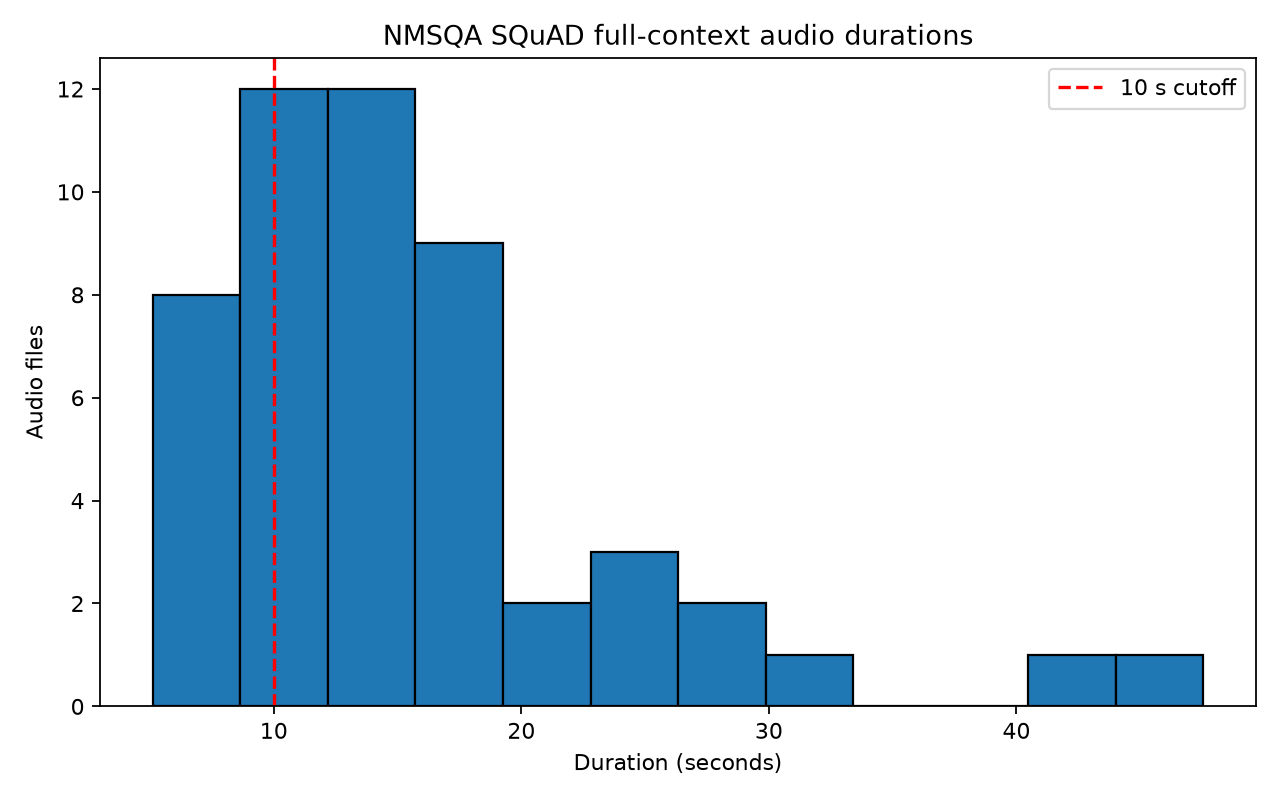
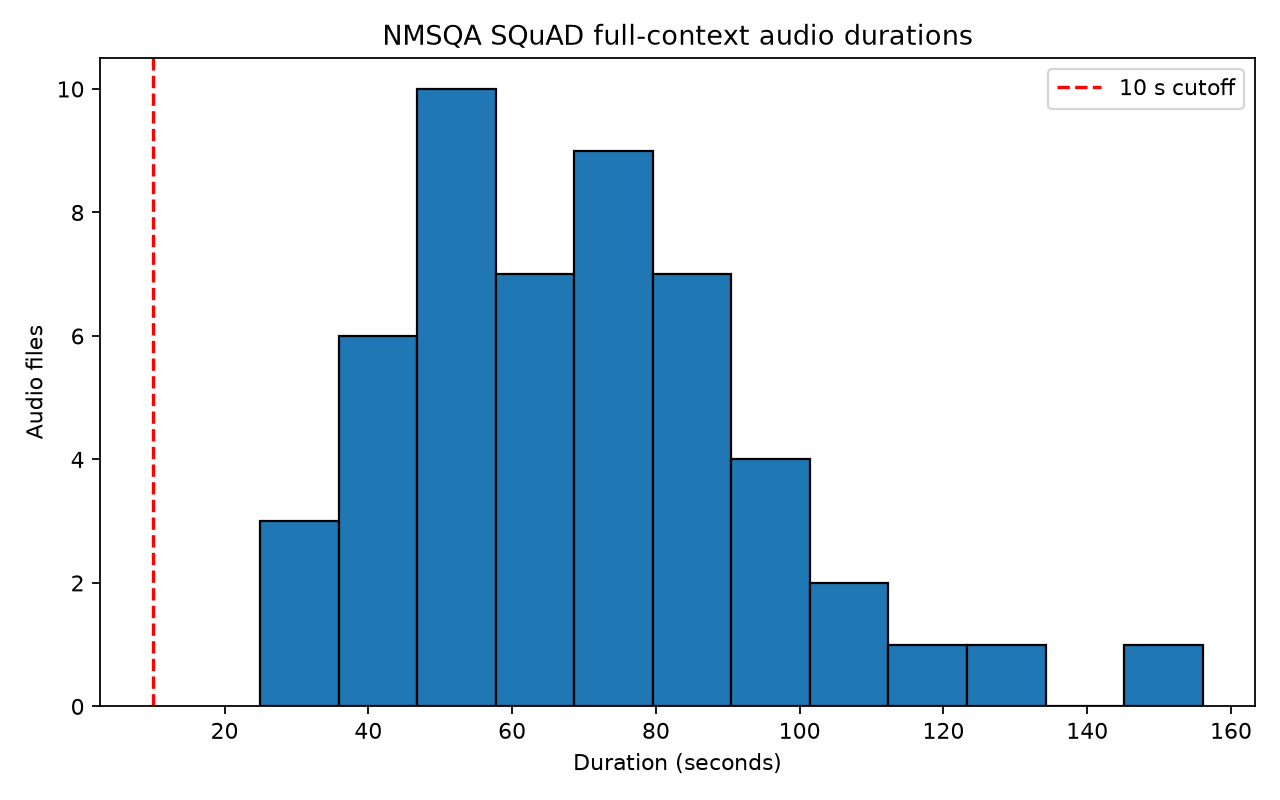
Merge NMSQA audio segments into full recordings

diff --git a/data/merge_nmsqa_squad_audio.py b/data/merge_nmsqa_squad_audio.py
@@ -1,0 +1,165 @@
+"""Merge NMSQA context segments for the 51 SQuAD 2.0 dev recordings.
+
+Source segment files are not modified. Full recordings are written as
+``<recording-prefix>-full.wav``. This script does not apply the 30-second crop.
+"""
+
+from __future__ import annotations
+
+import argparse
+import json
+import statistics
+from pathlib import Path
+
+import soundfile as sf
+
+from select_nmsqa_squad_audio import select_audio_names
+
+
+DEFAULT_OVERLAP_DIR = Path("data/raw/nmsqa_overlap")
+DEFAULT_SOURCE_DIR = Path("data/raw/nmsqa/NMSQA_audio/test_audios")
+DEFAULT_OUTPUT_DIR = Path("data/raw/nmsqa_squad_test")
+
+
+def parse_args() -> argparse.Namespace:
+    parser = argparse.ArgumentParser(
+        description="Merge NMSQA c-0, c-1, ... segments into 51 full recordings."
+    )
+    parser.add_argument(
+        "--nmsqa-parquet",
+        type=Path,
+        default=DEFAULT_OVERLAP_DIR / "nmsqa_test.parquet",
+    )
+    parser.add_argument(
+        "--squad-dev",
+        type=Path,
+        default=DEFAULT_OVERLAP_DIR / "dev-v2.0.json",
+    )
+    parser.add_argument("--source-dir", type=Path, default=DEFAULT_SOURCE_DIR)
+    parser.add_argument("--output-dir", type=Path, default=DEFAULT_OUTPUT_DIR)
+    return parser.parse_args()
+
+
+def recording_prefix(audio_name: str) -> str:
+    stem = Path(audio_name).stem
+    prefix, separator, segment_number = stem.rpartition("-c-")
+    if not separator or not prefix or not segment_number.isdigit():
+        raise ValueError(f"Unexpected NMSQA context filename: {audio_name}")
+    return prefix
+
+
+def segment_number(path: Path) -> int:
+    suffix = path.stem.rpartition("-c-")[2]
+    if not suffix.isdigit():
+        raise ValueError(f"Unexpected NMSQA segment filename: {path.name}")
+    return int(suffix)
+
+
+def find_segments(source_dir: Path, prefix: str) -> list[Path]:
+    segments = sorted(
+        source_dir.glob(f"{prefix}-c-*.wav"),
+        key=segment_number,
+    )
+    if not segments:
+        raise FileNotFoundError(f"No context segments found for {prefix}")
+
+    numbers = [segment_number(path) for path in segments]
+    expected = list(range(len(segments)))
+    if numbers != expected:
+        raise ValueError(
+            f"Non-contiguous segments for {prefix}: "
+            f"found {numbers}, expected {expected}"
+        )
+    return segments
+
+
+def merge_segments(segments: list[Path], destination: Path) -> dict:
+    first = sf.info(str(segments[0]))
+    expected_frames = 0
+
+    for path in segments:
+        info = sf.info(str(path))
+        if info.samplerate != first.samplerate:
+            raise ValueError(f"Sampling-rate mismatch: {path}")
+        if info.channels != first.channels:
+            raise ValueError(f"Channel-count mismatch: {path}")
+        expected_frames += info.frames
+
+    destination.parent.mkdir(parents=True, exist_ok=True)
+    with sf.SoundFile(
+        str(destination),
+        mode="w",
+        samplerate=first.samplerate,
+        channels=first.channels,
+        format="WAV",
+        subtype=first.subtype,
+    ) as output:
+        for path in segments:
+            with sf.SoundFile(str(path), mode="r") as source:
+                while True:
+                    block = source.read(
+                        frames=65536,
+                        dtype="float32",
+                        always_2d=True,
+                    )
+                    if len(block) == 0:
+                        break
+                    output.write(block)
+
+    merged = sf.info(str(destination))
+    if merged.frames != expected_frames:
+        raise ValueError(
+            f"Frame-count mismatch for {destination}: "
+            f"{merged.frames} != {expected_frames}"
+        )
+
+    return {
+        "audio_path": destination.as_posix(),
+        "segments": [path.as_posix() for path in segments],
+        "segment_count": len(segments),
+        "duration_seconds": round(merged.duration, 3),
+        "sampling_rate": merged.samplerate,
+        "channels": merged.channels,
+    }
+
+
+def main() -> None:
+    args = parse_args()
+    selected_names = select_audio_names(args.nmsqa_parquet, args.squad_dev)
+    prefixes = sorted({recording_prefix(name) for name in selected_names})
+    if len(prefixes) != 51:
+        raise ValueError(f"Expected 51 recordings, found {len(prefixes)}")
+
+    records = []
+    for index, prefix in enumerate(prefixes, start=1):
+        segments = find_segments(args.source_dir, prefix)
+        destination = args.output_dir / f"{prefix}-full.wav"
+        record = {
+            "recording_id": prefix,
+            **merge_segments(segments, destination),
+        }
+        records.append(record)
+        print(
+            f"[{index:02d}/51] {destination.name}: "
+            f"{record['segment_count']} segments, "
+            f"{record['duration_seconds']:.3f}s"
+        )
+
+    manifest_path = args.output_dir / "merged_audio_manifest.json"
+    manifest_path.write_text(
+        json.dumps(records, ensure_ascii=False, indent=2) + "\n",
+        encoding="utf-8",
+    )
+
+    durations = [record["duration_seconds"] for record in records]
+    print(f"\nMerged recordings: {len(records)}")
+    print(f"Minimum duration:  {min(durations):.3f}s")
+    print(f"Median duration:   {statistics.median(durations):.3f}s")
+    print(f"Maximum duration:  {max(durations):.3f}s")
+    print(f"Output:            {args.output_dir}")
+    print(f"Manifest:          {manifest_path}")
+    print("30-second cropping: not applied")
+
+
+if __name__ == "__main__":
+    main()

diff --git a/data/explore_nmsqa_overlap.py b/data/explore_nmsqa_overlap.py
@@ -36,6 +36,14 @@ DEFAULT_REPORT = Path("data/nmsqa_overlap_report.json")
 DEFAULT_DATA_CSV = Path("data/generation/data.csv")
 
 
+def merged_audio_name(audio_path: str) -> str:
+    stem = Path(audio_path).stem
+    prefix, separator, segment_number = stem.rpartition("-c-")
+    if not separator or not prefix or not segment_number.isdigit():
+        raise ValueError(f"Unexpected NMSQA context filename: {audio_path}")
+    return f"{prefix}-full.wav"
+
+
 def parse_args() -> argparse.Namespace:
     parser = argparse.ArgumentParser(
         description="Count SQuAD 2.0 dev A/C questions covered by NMSQA test audio."
@@ -289,7 +297,10 @@ def analyze_durations(
     audio_dir: Path | None,
     histogram_path: Path,
 ) -> dict:
-    expected_names = {Path(path).name for path in expected_audio_paths}
+    expected_names = {
+        merged_audio_name(path)
+        for path in expected_audio_paths
+    }
     if audio_dir is None or not audio_dir.is_dir():
         return {
             "status": "audio_directory_missing",
@@ -391,16 +402,16 @@ def measure_duration_filtered_overlap(
         for item in duration_audit["short_files_under_10_seconds"]
     }
     kept_names = {
-        Path(path).name
+        merged_audio_name(path)
         for key in matched_keys
         for path in nmsqa_contexts[key]["audio_paths"]
-        if Path(path).name not in rejected_names
+        if merged_audio_name(path) not in rejected_names
     }
     kept_keys = {
         key
         for key in matched_keys
         if any(
-            Path(path).name in kept_names
+            merged_audio_name(path) in kept_names
             for path in nmsqa_contexts[key]["audio_paths"]
         )
     }

diff --git a/docs/decisions.md b/docs/decisions.md
@@ -3,6 +3,7 @@
 Format: `date — decision — why`. Newest on top. Entries may be in English or Russian.
 Schema changes (PLAN.md §2) MUST be announced here the same day.
 
+- 2026-07-23 — **Сборка полных записей NMSQA из сегментов.** Файлы `squad-…-c-0.wav`, `c-1.wav`, … — последовательные фрагменты одного озвученного SQuAD-пассажа, а не самостоятельные полные записи. Использовать один выбранный фрагмент нельзя: 267 A + 235 C относятся к полным пассажам, поэтому вопрос может требовать информацию из другого фрагмента. Для каждого из 51 совпавшего аудио сегменты объединяются по порядку отдельным скриптом `data/merge_nmsqa_squad_audio.py`; исходные файлы не изменяются, результат сохраняется как `data/raw/nmsqa_squad_test/*-full.wav`. На этом шаге записи не обрезаются. Следующим отдельным шагом полные записи будут приведены к правилу 30 секунд: останется слышимая часть транскрипта, A-вопросы будут отфильтрованы по наличию ответа в ней, C-вопросы сохранятся.
 - 2026-07-22 — **Чекпоинт сдвинут с пт 24.07 на сб 25.07.** Причина: M1 дочитывает статью 24 и пишет код снятия представлений в чт 23.07 (передача M2 вечером), поэтому тензоры и мягкие метки по пилоту появляются только в пятницу, а обучение зондов — в субботу. Развязка, позволившая не сдвигать больше: снятие не требует прочтения статьи — снимаем **все** слои-кандидаты {8, 16, 24, 32} и оба варианта агрегации (последний токен + среднее), выбор лучшего слоя становится анализом по факту; мягкие метки считаются по уже зафиксированной формуле `incorrect()`. Стоп экспериментов (ср 29.07) и дедлайн статьи не двигаются; на A2 после чекпоинта остаётся 26–29.07.
 - 2026-07-22 — **Правило 30 секунд (сквозное ограничение эксперимента).** Обнаружено при подготовке скейл-сета: Qwen2-Audio физически обрабатывает только первые 30 с записи, тогда как каскад через Whisper получает транскрипт целиком — то есть системы получали неодинаковый вход. Это **архитектурный предел, а не настройка препроцессора:** у аудио-энкодера `max_source_positions=1500` позиционных эмбеддингов (= 3000 mel-фреймов = 30 с), поэтому флаг `truncation=False` (который в препроцессоре вернёт и более длинную спектрограмму) не спасает — энкодер её не примет. Подтверждено фактическим прогоном процессора Qwen2-Audio: аудио 43 с и 90 с на выходе дают ровно 30 с слышимого сигнала (`input_features (128, 3000)`, `attention_mask.sum = 480000`); наш харнесс ([src/models/qwen2_audio.py](../src/models/qwen2_audio.py)) вызывает процессор с обрезкой по умолчанию. **Проверка пилота-100 задним числом:** все 40 пассажей длятся 31–55 с (медиана 43), но из 24 A-вопросов, чей gold-ответ находится в транскрипте дословно, лишь **1 (4%)** лежит за пределом слышимых 30 с → в 96% случаев ответ был модели доступен, и вывод «узкое место — эпистемическое рассуждение, а не слух» устоял. Идёт в Limitations и `data_card.md`; для B такая проверка невозможна (ответ по определению не дословный) — остаточный риск, признаём явно. **Для всех новых наборов:** фильтр длительности ≤30 с, либо (при нехватке данных) обрезка аудио до 30 с с пропорциональным усечением транскрипта и отбором A по `answer_start` внутри слышимой части; C обрезка не затрагивает.
 - 2026-07-22 — **Трактовка hedge и определение целевого события для зонда.** В метриках статьи оставляем пилотную схему: hedge — самостоятельная третья метка, не сливается ни с галлюцинациями (`hallucination_rate` считает только `answer`), ни с отказами (`correct_refusal_rate` — только `abstain`); их сумма отчитывается отдельно как `no_abstain_rate_on_c`, поле `correct` для hedge остаётся `False`. **Для мягких меток A2 зафиксировано:** `incorrect(a) = 1`, если (`category == C` и `label == answer`) или (`category == A` и `label == answer` и `correct == False`); отказы и hedge — всегда 0. Прежняя формулировка «(A и correct == False)» была ошибочной: при отказе `correct` тоже `False`, поэтому отказы попадали бы в класс «галлюцинация», зонд учился бы предсказывать отказы, а митигация probe→abstain подменяла бы отказ отказом и раздувала избыточные отказы. Асимметрия (hedge на C — частичный успех, на A — потеря точности, но не галлюцинация) осознанная и проговаривается в статье. Частота hedge в пилоте — 8/400 (2%, только в plain-прогонах); при сэмплировании с temperature=1 доля будет выше, поэтому конвенция фиксируется до старта оценки.

diff --git a/README_RU.md b/README_RU.md
@@ -164,6 +164,12 @@ python data/download_nmsqa_audio.py
 python data/select_nmsqa_squad_audio.py
 ```
 
+Объединить сегменты `c-0`, `c-1`, ... каждой записи по порядку:
+
+```bash
+python data/merge_nmsqa_squad_audio.py
+```
+
 Запустить аудит матчинга без фильтра `data.csv`: проверяются SQuAD train,
 fuzzy-совпадения, коллизии нормализации и длительности:
 

diff --git a/README.md b/README.md
@@ -164,6 +164,12 @@ to `data/raw/nmsqa_squad_test/`, and verify that every WAV opens:
 python data/select_nmsqa_squad_audio.py
 ```
 
+Merge each recording's `c-0`, `c-1`, ... segments in order:
+
+```bash
+python data/merge_nmsqa_squad_audio.py
+```
+
 Run the unfiltered matching, train/fuzzy, normalization-collision, and duration
 audit:
 
